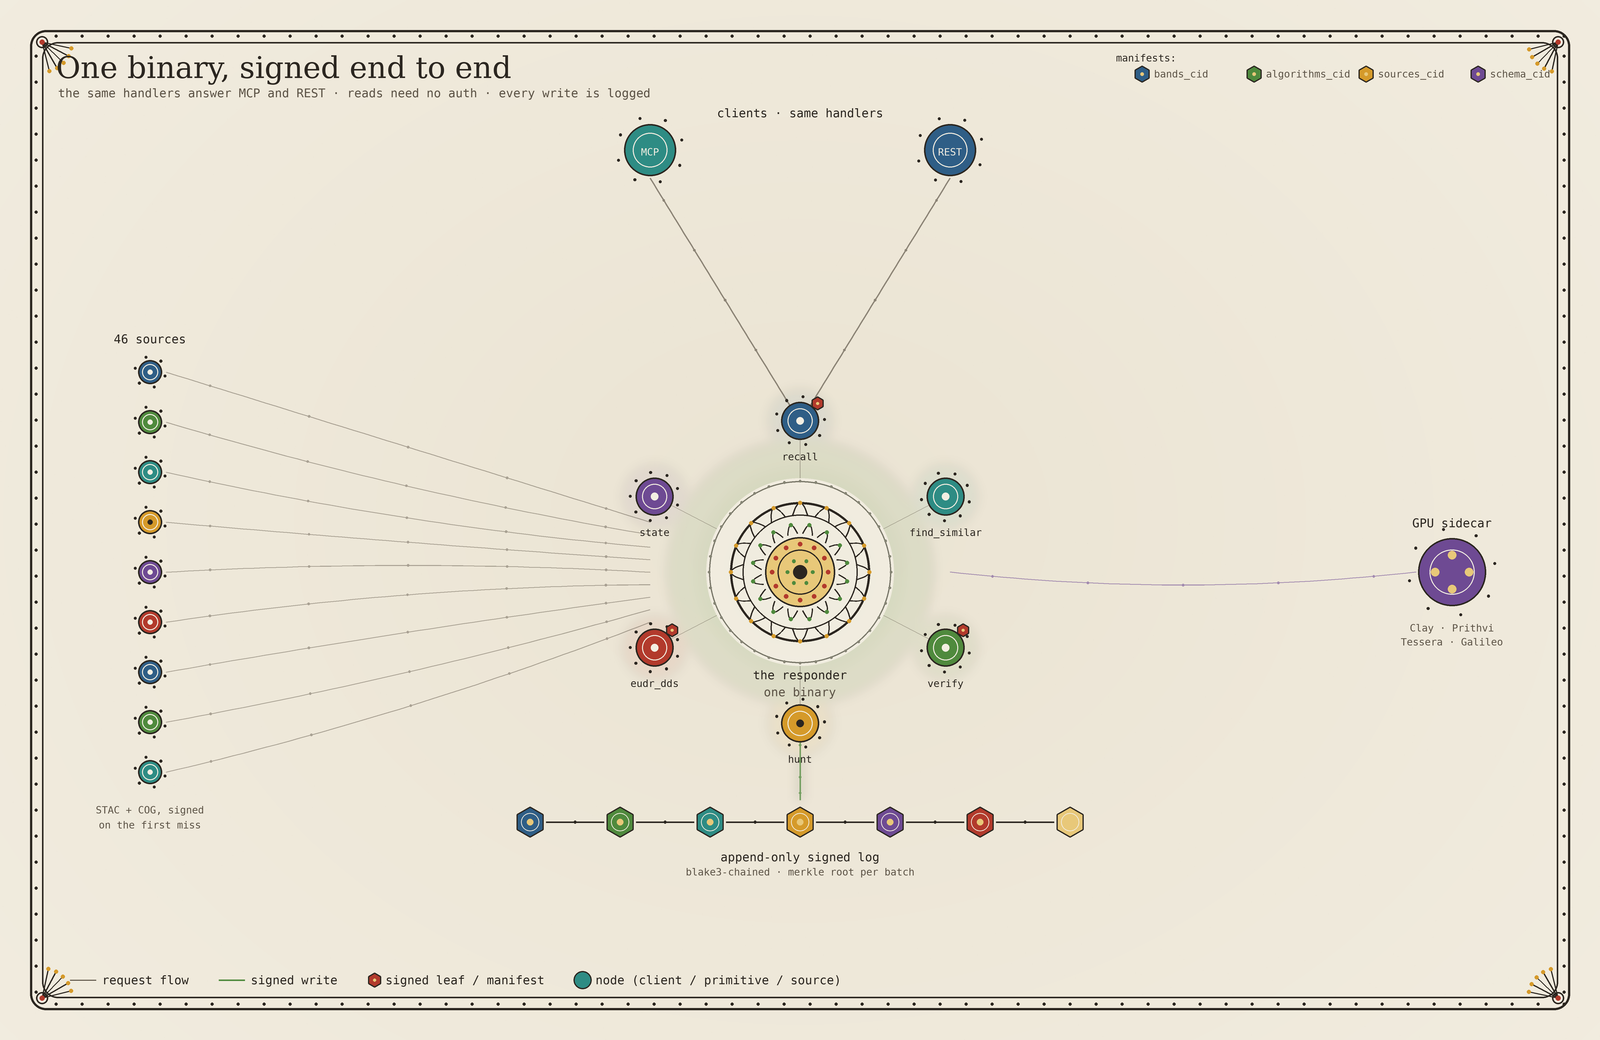
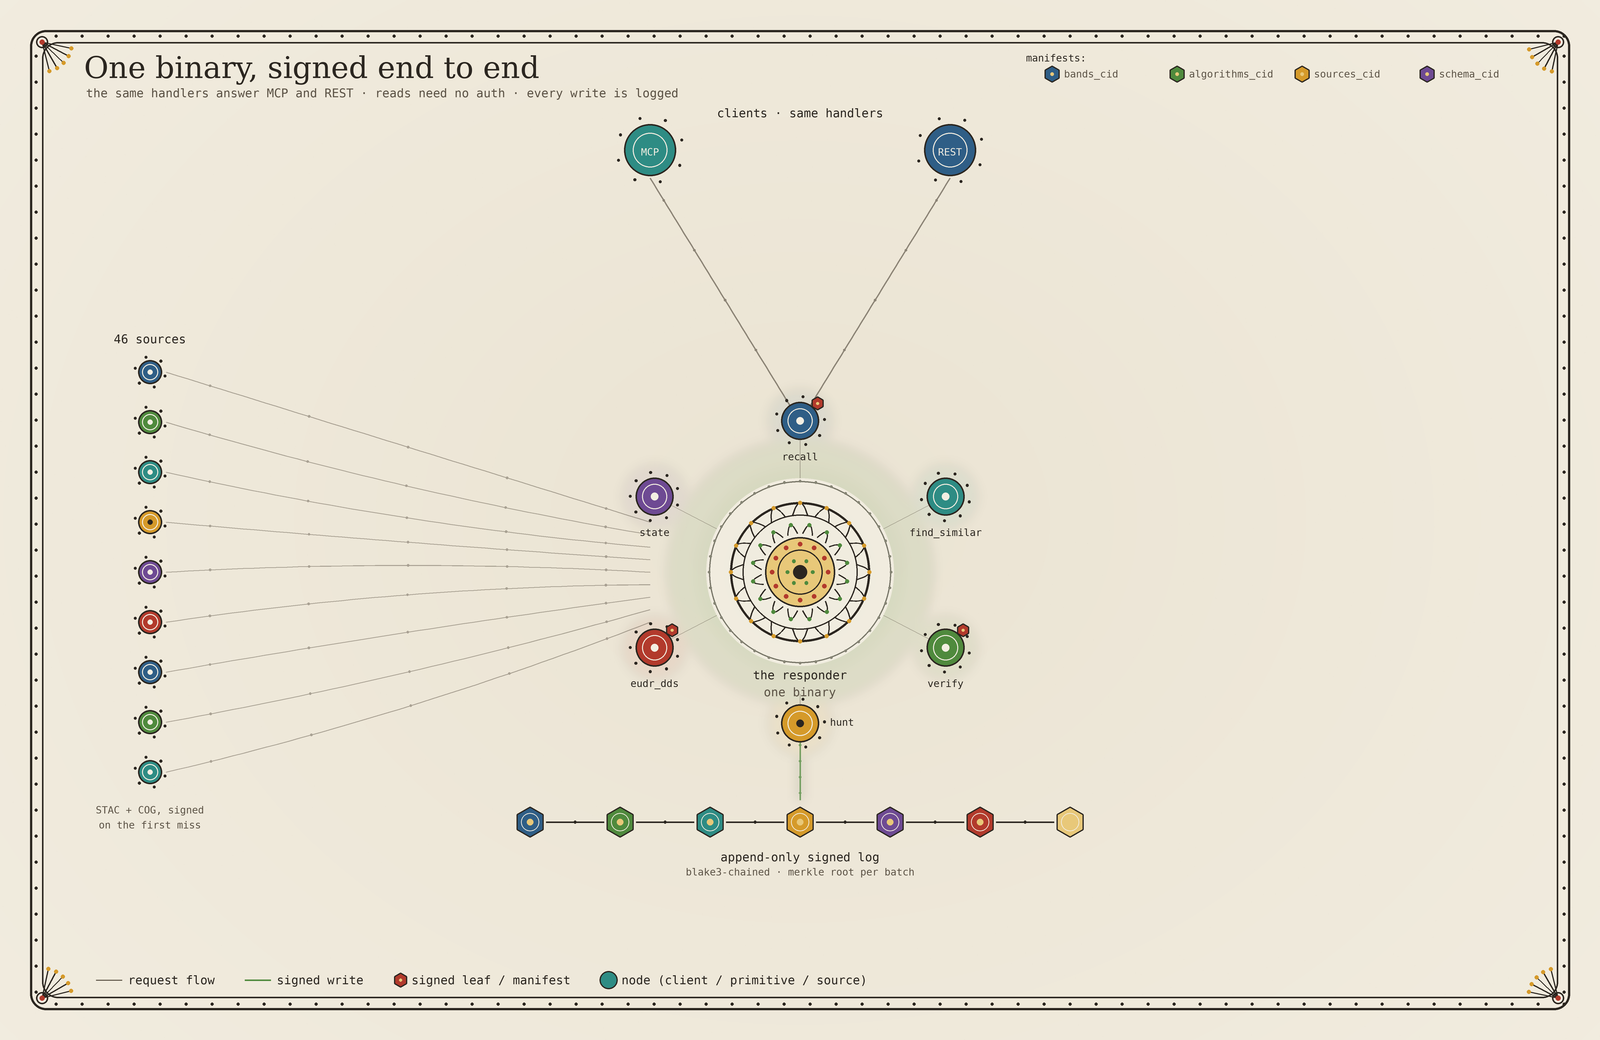
Architecture and federation PNGs: drop GPU sidecar, clear the frame
architecture.png still showed a GPU sidecar running Clay, Prithvi,
Tessera and Galileo. The generator had already dropped it, as the
responder no longer runs that sidecar, but the PNG was never rebuilt.

Both titles and legends sat on the corner ornaments, the manifest row
touched the right frame, and the hunt label sat on its log line. They
move inward; no text changes. 46 sources matches /v1/manifests
covers.sources on 7 November 2026.

diff --git a/scripts/gen_architecture.py b/scripts/gen_architecture.py
@@ -22,8 +22,8 @@ f_sub = c.font(FONT_MONO, 12)
 f_lab = c.font(FONT_MONO, 12)
 f_tiny = c.font(FONT_MONO, 10)
 
-c.text(56, 50, "One binary, signed end to end", f_title, INK)
-c.text(58, 86, "the same handlers answer MCP and REST · reads need no auth · every write is logged", f_sub, INK_SOFT)
+c.text(84, 50, "One binary, signed end to end", f_title, INK)
+c.text(86, 86, "the same handlers answer MCP and REST · reads need no auth · every write is logged", f_sub, INK_SOFT)
 
 def flow(a, b, col, w, a_=170, bow=0.0, beads=True, glow=False):
     mx, my = (a[0] + b[0]) / 2, (a[1] + b[1]) / 2
@@ -84,10 +84,14 @@ RR = 168
 for i, name in enumerate(prims):
     th = math.radians(-90 + i * 360 / len(prims))
     x, y = CX + RR * math.cos(th), CY + RR * math.sin(th) * 0.9
-    c.line((CX, CY), (x, y), INK_SOFT, 0.8, a=110)
+    below = math.sin(th) > 0.99
+    # The spoke and label of the node straight below the centre would cross the centre's own labels.
+    c.line((CX, CY + 122) if below else (CX, CY), (x, y), INK_SOFT, 0.8, a=110)
     c.roundel(x, y, 19, pr_dyes[i], signed=(i % 2 == 0))
-    lx = x + (26 if math.cos(th) >= 0 else -26)
-    c.text(x, y + 30, name, f_tiny, INK, center=True)
+    if below:
+        c.text(x + 30, y - 7, name, f_tiny, INK)
+    else:
+        c.text(x, y + 30, name, f_tiny, INK, center=True)
 
 # ---- centre: the binary
 c.lotus(CX, CY, 70)
@@ -96,16 +100,16 @@ c.text(CX, CY + 113, "one binary", f_lab, INK_SOFT, center=True)
 
 # ---- manifests row under the title (4 content-addressed CIDs)
 mlabels = ["bands_cid", "algorithms_cid", "sources_cid", "schema_cid"]
-mx0 = W - 470
+mx0 = W - 560
 c.text(mx0 - 14, 52, "manifests:", f_tiny, INK)
 for i, m in enumerate(mlabels):
-    x = mx0 + 12 + i * 112
+    x = mx0 + 12 + i * 125
     c.seal(x, 74, 8, fill=[INDIGO, LEAF, TURMERIC, LAC][i])
     c.text(x + 12, 68, m, f_tiny, INK_SOFT)
 
 # ---- legend
 ly = H - 60
-lx = 70
+lx = 96
 c.line((lx, ly), (lx + 26, ly), INK_SOFT, 1.1)
 c.text(lx + 32, ly - 7, "request flow", f_lab, INK); lx += 32 + c.textw("request flow", f_lab) + 30
 c.line((lx, ly), (lx + 26, ly), LEAF, 1.4); c.text(lx + 32, ly - 7, "signed write", f_lab, INK); lx += 32 + c.textw("signed write", f_lab) + 30

diff --git a/scripts/gen_federation.py b/scripts/gen_federation.py
@@ -22,8 +22,8 @@ f_sub = c.font(FONT_MONO, 12)
 f_lab = c.font(FONT_MONO, 11)
 f_tiny = c.font(FONT_MONO, 10)
 
-c.text(56, 50, "One memory, many responders", f_title, INK)
-c.text(58, 86, "every node signs under its own key · every node resolves the same id", f_sub, INK_SOFT)
+c.text(84, 50, "One memory, many responders", f_title, INK)
+c.text(86, 86, "every node signs under its own key · every node resolves the same id", f_sub, INK_SOFT)
 
 # ---- responder ring
 N = 8
@@ -113,7 +113,7 @@ c.text(CX - R - 116, CY - 150 + 30, "verifies offline", f_tiny, INK_SOFT, center
 
 # ---- legend
 ly = H - 64
-lx = 70
+lx = 96
 c.circle(lx, ly, 8, outline=INK, fill=INDIGO, w=1.4); c.seal(lx + 7, ly - 7, 4.6)
 c.text(lx + 18, ly - 7, "responder (its own key)", f_lab, INK); lx += 18 + c.textw("responder (its own key)", f_lab) + 30
 c.line((lx, ly), (lx + 26, ly), LEAF, 1.4); c.text(lx + 32, ly - 7, "resolves same id", f_lab, INK); lx += 32 + c.textw("resolves same id", f_lab) + 28
